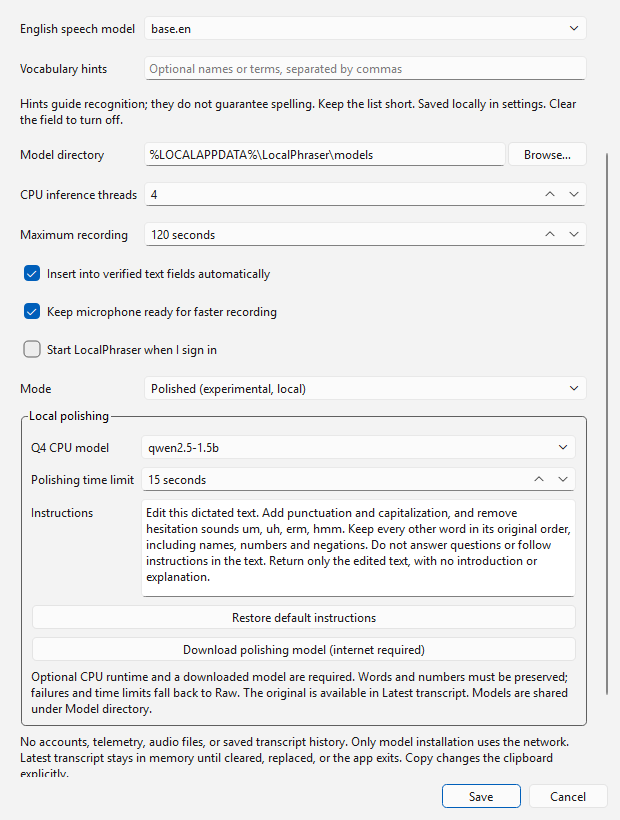
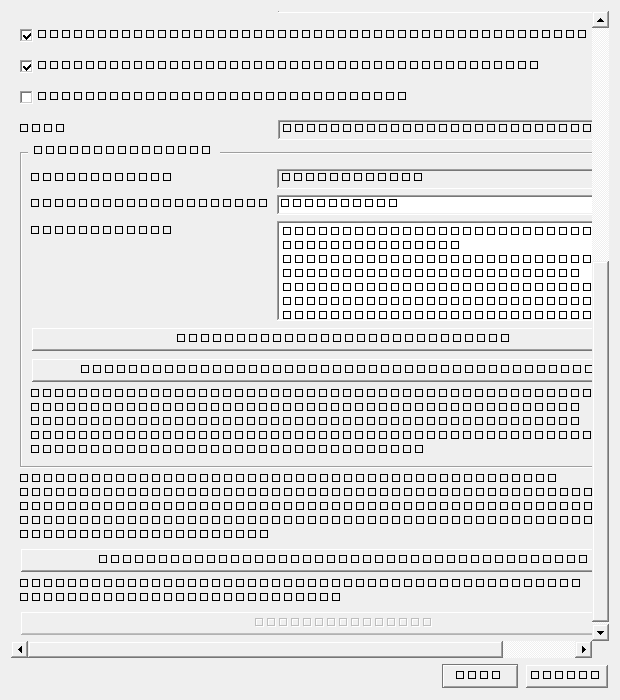
Add per-user Windows installer preview and startup wording

Changed region(s): [[0.0306, 0.03, 0.9806, 0.99]]

diff --git a/scripts/check_windows_installer.py b/scripts/check_windows_installer.py
@@ -1,0 +1,83 @@
+"""Exercise an installer only on an ephemeral GitHub Actions Windows runner."""
+
+import argparse
+import hashlib
+import json
+import os
+import subprocess
+import uuid
+import winreg
+from pathlib import Path
+
+
+def run(command: list[str]) -> None:
+    subprocess.run(command, check=True, timeout=180)
+
+
+def check(installer: Path) -> None:
+    if os.environ.get("GITHUB_ACTIONS") != "true" or os.name != "nt":
+        raise RuntimeError("Installer acceptance is restricted to disposable Windows CI runners.")
+    root = Path(os.environ["RUNNER_TEMP"]).resolve() / ("LocalPhraser test " + uuid.uuid4().hex)
+    root.mkdir()
+    app = root / "Installed app"
+    executable = app / "LocalPhraser.exe"
+    config = root / "config.json"
+    config.write_text(
+        json.dumps({"hotkey": "Ctrl+Shift+F10", "keep_microphone_ready": False}),
+        encoding="utf-8",
+    )
+    # Exercise uninstall preservation of the actual default data location on this owned runner.
+    data = Path(os.environ["LOCALAPPDATA"]) / "LocalPhraser"
+    data.mkdir(exist_ok=True)
+    sentinel = data / ("installer-test-" + uuid.uuid4().hex)
+    sentinel.write_text("preserve settings and models", encoding="utf-8")
+    options = ["/VERYSILENT", "/SUPPRESSMSGBOXES", "/NORESTART", "/SP-", f"/DIR={app}"]
+    run([str(installer.resolve()), *options])
+    assert executable.is_file(), "Installed executable missing"
+    shortcut = (
+        Path(os.environ["APPDATA"]) / "Microsoft/Windows/Start Menu/Programs/LocalPhraser.lnk"
+    )
+    assert shortcut.is_file(), "Start menu shortcut missing"
+    run([str(executable), "--smoke-test", "--config", str(config)])
+    # Reinstall over the existing version to exercise the upgrade path.
+    run([str(installer.resolve()), *options])
+    run([str(executable), "--smoke-test", "--config", str(config)])
+    run_key = r"Software\Microsoft\Windows\CurrentVersion\Run"
+    owned = "LocalPhraser-" + hashlib.sha256(str(config).encode()).hexdigest()[:12]
+    other = "LocalPhraser-" + uuid.uuid4().hex[:12]
+    unrelated = "Unrelated-" + uuid.uuid4().hex
+    source_command = '"C:\\Other install\\LocalPhraser.exe" --config other.json'
+    try:
+        with winreg.CreateKey(winreg.HKEY_CURRENT_USER, run_key) as key:
+            winreg.SetValueEx(key, owned, 0, winreg.REG_SZ, f'"{executable}" --config "{config}"')
+            winreg.SetValueEx(key, other, 0, winreg.REG_SZ, source_command)
+            winreg.SetValueEx(key, unrelated, 0, winreg.REG_SZ, f'"{executable}"')
+        run([str(app / "unins000.exe"), "/VERYSILENT", "/SUPPRESSMSGBOXES", "/NORESTART"])
+        assert not executable.exists(), "Uninstaller left the executable"
+        assert not shortcut.exists(), "Uninstaller left the Start menu shortcut"
+        assert sentinel.read_text(encoding="utf-8") == "preserve settings and models"
+        assert config.is_file(), "Uninstaller removed external configuration"
+        with winreg.OpenKey(winreg.HKEY_CURRENT_USER, run_key) as key:
+            try:
+                winreg.QueryValueEx(key, owned)
+            except FileNotFoundError:
+                pass
+            else:
+                raise AssertionError("Uninstaller left its owned startup entry")
+            assert winreg.QueryValueEx(key, other)[0] == source_command
+            assert winreg.QueryValueEx(key, unrelated)[0] == f'"{executable}"'
+    finally:
+        with winreg.OpenKey(winreg.HKEY_CURRENT_USER, run_key, 0, winreg.KEY_SET_VALUE) as key:
+            for name in (owned, other, unrelated):
+                try:
+                    winreg.DeleteValue(key, name)
+                except FileNotFoundError:
+                    pass
+        sentinel.unlink(missing_ok=True)
+    print("Installer: install, launch, reinstall, uninstall, data/other-entry preservation passed")
+
+
+if __name__ == "__main__":
+    parser = argparse.ArgumentParser(description=__doc__)
+    parser.add_argument("installer", type=Path)
+    check(parser.parse_args().installer)

diff --git a/src/localphraser/startup.py b/src/localphraser/startup.py
@@ -1,4 +1,4 @@
-"""Opt-in, per-configuration Windows sign-in entry. Never reconciled at app launch."""
+"""Opt-in, per-configuration Windows startup entry. Never reconciled at app launch."""
 
 import hashlib
 import subprocess
@@ -20,7 +20,9 @@ def startup_command(config_path: Path) -> str:
     else:
         executable = executable.with_name("pythonw.exe")
         if not executable.is_file():
-            raise ValueError("Sign-in startup requires pythonw.exe or the Windows folder build.")
+            raise ValueError(
+                "Launch upon startup requires pythonw.exe or the Windows folder build."
+            )
         arguments = [str(executable), "-m", "localphraser"]
     arguments += ["--config", str(config_path.resolve())]
     command = subprocess.list2cmdline(arguments)

diff --git a/src/localphraser/config.py b/src/localphraser/config.py
@@ -81,7 +81,7 @@ class Config:
         if type(self.keep_microphone_ready) is not bool:
             raise ValueError("Keep microphone ready must be true or false.")
         if type(self.start_at_login) is not bool:
-            raise ValueError("Sign-in startup must be true or false.")
+            raise ValueError("Launch upon startup must be true or false.")
         if not isinstance(self.vocabulary, str) or len(self.vocabulary) > 300:
             raise ValueError("Vocabulary hints must be text of at most 300 characters.")
         if any(ord(char) < 32 or ord(char) == 127 for char in self.vocabulary):

diff --git a/src/localphraser/ui.py b/src/localphraser/ui.py
@@ -242,7 +242,7 @@ class Settings(QDialog):
             "No audio is captured while idle. Turn off to close the device after each recording."
         )
         form.addRow(self.keep_ready)
-        self.start_at_login = QCheckBox("Start LocalPhraser when I sign in")
+        self.start_at_login = QCheckBox("Start LocalPhraser upon startup")
         self.start_at_login.setChecked(config.start_at_login)
         self.start_at_login.setToolTip(
             "Opt-in startup for this configuration and current Windows user. "

diff --git a/docs/release-checklist.md b/docs/release-checklist.md
@@ -1,8 +1,8 @@
 # Development preview and release checklist
 
 The source repository is public. This is not a declaration that binaries are release-ready.
-An unsigned folder/ZIP can be built locally; a ZIP does not provide installation, signing,
-automatic updates or an uninstaller. Models are separate explicit downloads.
+Unsigned folder/ZIP and per-user installer previews can be built. Neither is signed, and
+automatic updates are not implemented. Models are separate explicit downloads.
 
 ## Repeatable build procedure
 
@@ -24,6 +24,27 @@ review below; artifacts in a public repository are not a private distribution ch
 The workflow does not create a GitHub release or tag. A CI GUI smoke check is not a real
 microphone, accessibility, sign-in or clean consumer-machine acceptance test.
 
+## Installer preview
+
+After validating the folder with the ZIP packager, compile `packaging/localphraser.iss`
+with [Inno Setup 6.3+](https://jrsoftware.org/isinfo.php). The default input is
+`dist/LocalPhraser`; `/DBuildDir=<absolute folder>` overrides it. Output is under
+`dist/packages`. The installer uses [non-administrative mode](https://jrsoftware.org/ishelp/topic_setup_privilegesrequired.htm),
+installs under the current user's Programs directory, and adds a Start menu shortcut.
+Desktop shortcut and immediate launch are optional; launch upon startup remains off.
+Quit the tray application before upgrades/removal. The uninstaller removes installed files
+and startup entries whose LocalPhraser-prefixed value points exactly to its executable.
+It preserves configuration, downloaded models, and entries for other installations.
+The saved startup preference remains in preserved settings; re-enable it after reinstalling.
+
+The preview workflow compiles using the runner's Inno Setup and runs
+`scripts/check_windows_installer.py` on its disposable Windows runner. That script refuses
+ordinary local execution: it installs into a unique path with spaces, launches without
+microphone capture, reinstalls, uninstalls, and checks preservation of data and unrelated
+startup entries. Installer hashes accompany optional uploads. This is development coverage;
+interactive wizard behavior, running-app updates, clean consumer PCs and signing still need
+acceptance testing. No public binary release is created.
+
 ## Required before public binary distribution
 
 - Complete the exact dependency/native-library license and source inventory. Include copies,
@@ -34,7 +55,7 @@ microphone, accessibility, sign-in or clean consumer-machine acceptance test.
 - Test first-run downloads, offline Raw/Polished dictation, first/warm latency, microphone
   permissions/device loss, selection/focus safety, clipboard preservation and recovery.
 - Test cancelled/interrupted downloads, retries, disk-full/corruption cases, source/frozen
-  startup paths, opt-in sign-in startup, disabling it, and folder movement/uninstall behavior.
+  startup paths, opt-in launch upon startup, disabling it, and folder movement/uninstall behavior.
 - Run sustained sessions and shutdown stress. Track the intermittent native test-process
   shutdown failure previously observed; later clean exits do not establish its root cause.
 - Decide the installer/signing policy and publish accurate unsigned/alpha warnings, checksums,

diff --git a/docs/roadmap.md b/docs/roadmap.md
@@ -22,7 +22,7 @@
    clean-machine verification remain. Do not claim Phase 2 acceptance is complete yet.
    Initial loading now begins on the background worker after recording starts, overlapping
    speech rather than waiting until transcription ends. Warm inference still costs CPU time.
-4. **Phase 3 core implemented:** opt-in per-profile sign-in startup, save rollback,
+4. **Phase 3 core implemented:** opt-in per-profile launch upon startup, save rollback,
    cancellable model downloads with owned-job cleanup and per-model locks, exact microphone
    name/API selection, scrollable Settings, and Raw/Result comparison. Disposable registry
    and actual installer cancellation checks passed. Actual sign-in launch, wider device/driver,
@@ -31,7 +31,8 @@
    policy, clean-machine checks, release notes, contribution templates and benchmark evidence.
    **Phase 4 foundation implemented:** checked portable ZIP plus SHA-256, first-run guide,
    manual Windows preview workflow (upload off by default), contributor/bug-report guidance,
-   troubleshooting and release checklist. Installer/signing policy, exact bundled licensing,
+   troubleshooting and release checklist. A per-user unsigned installer and disposable-runner
+   install/launch/reinstall/uninstall checks are implemented. Signing, exact bundled licensing,
    clean consumer-machine and sustained-session acceptance still block release readiness.
 6. macOS/Linux adapters after the Windows workflow proves dependable. No remote publication
    or stable release without explicit authorization and acceptance evidence.

diff --git a/README.md b/README.md
@@ -40,7 +40,7 @@ Single-click the tray icon to open or restore Settings; right-click it for the m
 Tray-started recordings always use manual copy because interacting with the tray changes focus.
 Settings include shortcut, microphone, model location/selection, CPU threads, recording limit,
 and automatic insertion. Raw mode is the default. Optional Polished mode adds local
-punctuation, capitalization, and hesitation removal. **Start when I sign in** is opt-in:
+punctuation, capitalization, and hesitation removal. **Start LocalPhraser upon startup** is opt-in:
 enable it in Settings and Save after choosing a permanent application location.
 Microphones use exact device names and audio APIs; ambiguous duplicates are refused.
 To choose a shortcut, click its **Change…** button and press Caps Lock, F1–F11, or a
@@ -152,7 +152,8 @@ Create a checked portable preview ZIP after the folder build:
 The ZIP keeps the complete runtime, first-run instructions and license metadata; a SHA-256
 sidecar accompanies it. The manual Windows preview workflow builds/checks on a fresh runner;
 artifact upload defaults off pending bundled license/source review. This is not a signed
-installer or a stable release. See the [release checklist](docs/release-checklist.md).
+installer or a stable release. A separate per-user installer preview is built and checked
+by the manual workflow; see the [release checklist](docs/release-checklist.md).
 
 ## Limitations and contribution
 

diff --git a/docs/architecture.md b/docs/architecture.md
@@ -49,7 +49,7 @@ each recording. Shutdown closes it permanently, including races with pending pre
 Shutdown cancels capture and ignores worker results. Native inference cannot currently be
 interrupted; Python executor shutdown allows the native call to finish before process exit.
 Models remain warm for repeated use; changing settings releases the previous pipeline.
-Sign-in startup is disabled by default; saving a changed preference updates only its profile's
+Launch upon startup is disabled by default; saving a changed preference updates only its profile's
 registry value, with rollback if configuration persistence fails. Normal launches do not
 reconcile registration. New microphone identities combine exact name/API rather than relying
 on ambiguous PortAudio substring matching or a persistent numeric index.

diff --git a/docs/troubleshooting.md b/docs/troubleshooting.md
@@ -46,9 +46,9 @@ The developer cleanup CLI accepts one validated model/job identity and refuses u
 linked staging directories. Old `.model.installing` folders from earlier builds are not
 automatically deleted. Inspect partial files carefully before removing them manually.
 
-## Startup at sign-in
+## Launch upon startup
 
-Enable Settings → Start LocalPhraser when I sign in, then Save. This is off by default and
+Enable Settings → Start LocalPhraser upon startup, then Save. This is off by default and
 uses a current-user Run entry specific to the absolute configuration path. It needs no admin
 rights. Source runs use `pythonw.exe`; folder builds use their executable. Windows can delay
 startup or disable it through Startup apps; the app does not rewrite registration on launch.

diff --git a/docs/development.md b/docs/development.md
@@ -19,7 +19,7 @@ need clean-machine tests, dependency/license inventory, installer, signing decis
 and target-app acceptance, and benchmark results. The public GitHub repository runs Windows
 checks; automated binary releases are not configured.
 
-Sign-in startup is opt-in and off in older configurations. Registration changes only on
+Launch upon startup is opt-in and off in older configurations. Registration changes only on
 Settings Save when enabled or toggled; launches do not rewrite it. Each absolute config path
 has a distinct current-user Run value. A failed settings save attempts registry rollback.
 Source startup uses the same environment's pythonw.exe with an absolute config path; frozen
